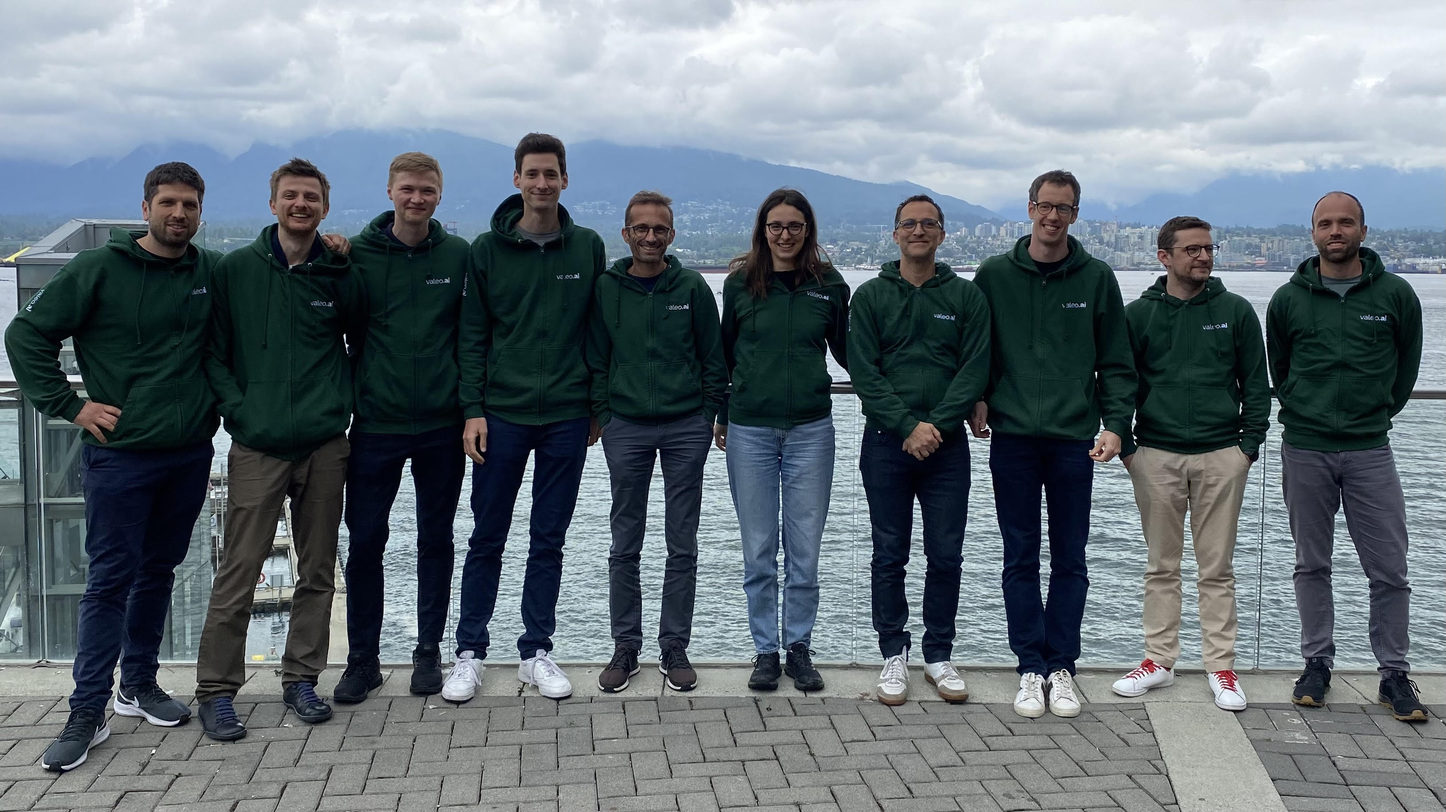
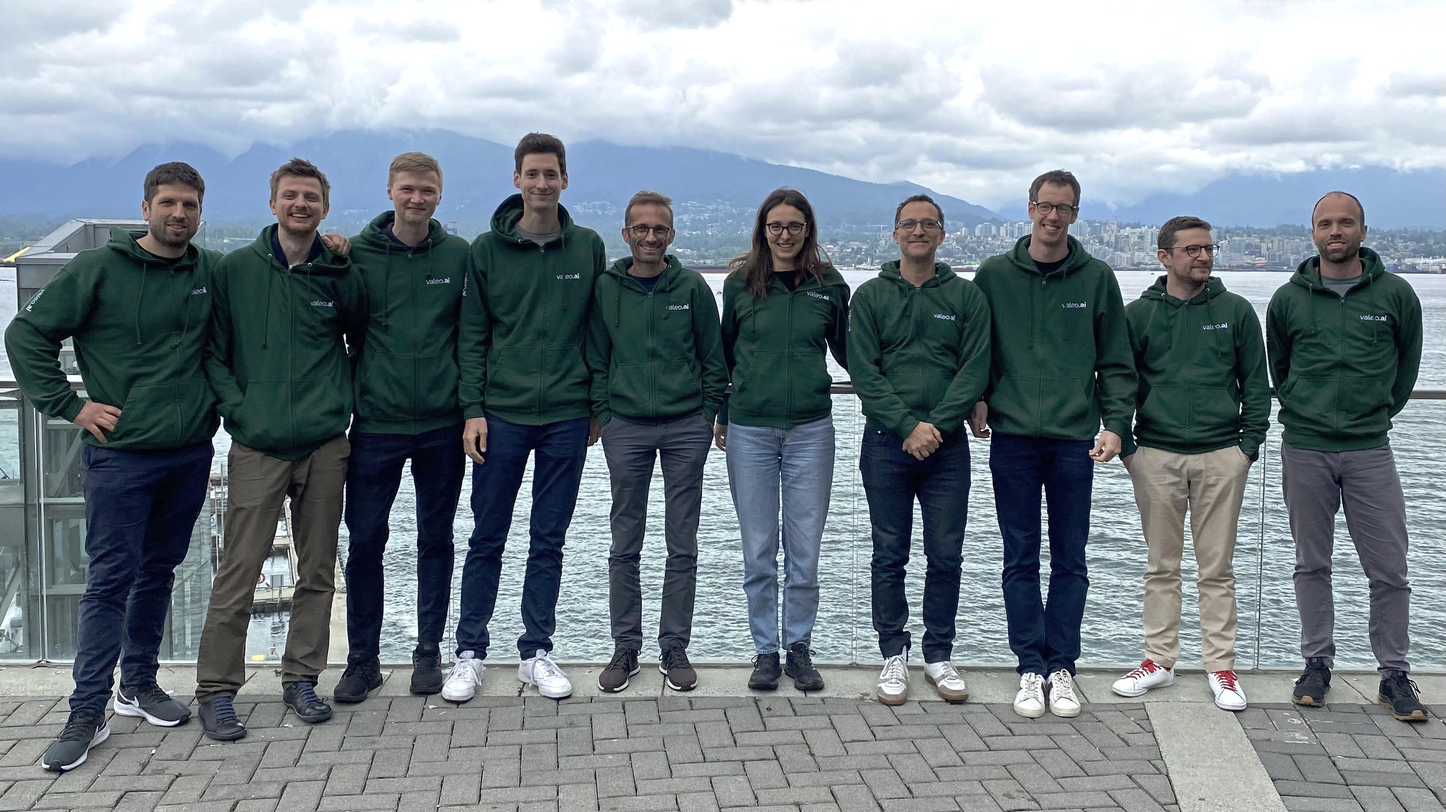
added some team members urls, and improved exposition of a team picture

diff --git a/index.html b/index.html
@@ -17,12 +17,12 @@ Find out more about our research here!
 
 
 <p align="left">
-  <img  src="{{site.baseurl}}/images/vai-team-2024.png" width="50%" />
-  <img  src="{{site.baseurl}}/images/vai-team-cvpr2023.jpg" width="45.0%" />
+  <img  src="{{site.baseurl}}/images/vai-team-2024.png" width="49%" />
+  <img  src="{{site.baseurl}}/images/vai-team-cvpr2023.jpg" width="49%" />
 </p>  
 
 ###  Team
-**Florent Bartoccioni**, research engineer | [page](https://f-barto.github.io/)   
+**Florent Bartoccioni**, research engineer | [page](https://f-barto.github.io/) | [scholar](https://scholar.google.com/citations?user=SemxkMwAAAAJ&hl=en)  
 **Victor Besnier**, research scientist | [scholar](https://scholar.google.com/citations?user=n_C2h-QAAAAJ&hl=en)  
 **Alexandre Boulch**, research scientist | [page](http://www.boulch.eu/) | [scholar](https://scholar.google.com/citations?user=iJ3qFGAAAAAJ&hl=en)| [github](https://github.com/aboulch) | [twitter](https://twitter.com/AlexandreBoulch)  
 **Andrei Bursuc**, deputy scientific director | [page](https://abursuc.github.io/) | [scholar](https://scholar.google.com/citations?user=HTfERCsAAAAJ&hl=en) | [github](https://github.com/abursuc/) | [twitter](https://twitter.com/abursuc)  
@@ -36,7 +36,7 @@ Find out more about our research here!
 **Victor Letzelter**, PhD student w/ Telecom Paris | [scholar](https://scholar.google.com/citations?user=YhTdZh8AAAAJ&hl=en) | [github](https://github.com/Victorletzelter)  
 **Renaud Marlet**, principal scientist (and researcher at ENPC) | [page](http://imagine.enpc.fr/~marletr/) | [scholar](https://scholar.google.fr/citations?user=2rclwh4AAAAJ&hl=en)  
 **Tetiana Martyniuk**, PhD student w/ Inria Paris | [scholar](https://scholar.google.com/citations?user=Ur0vgfMAAAAJ&hl=en)  
-**Björn Michele**, PhD student w/ U. Bretagne Sud | [page](https://bjoernmichele.com) | [scholar](https://scholar.google.fr/citations?user=xQcKnXkAAAAJ)    
+**Björn Michele**, PhD student w/ U. Bretagne Sud | [page](https://bjoernmichele.com) | [scholar](https://scholar.google.fr/citations?user=xQcKnXkAAAAJ) | [twitter](https://twitter.com/bjoern_michele) 
 **Gilles Puy**, research scientist | [page](https://sites.google.com/site/puygilles/home) | [scholar](https://scholar.google.com/citations?user=enaORE8AAAAJ&hl=en)  
 **Nermin Samet**, research scientist | [page](https://nerminsamet.github.io/) | [scholar](https://scholar.google.com/citations?user=kEVeHU0AAAAJ)  
 **Corentin Sautier**, PhD student w/ ENPC | [page](https://csautier.github.io/) | [scholar](https://scholar.google.com/citations?user=xYDkHEsAAAAJ)  
